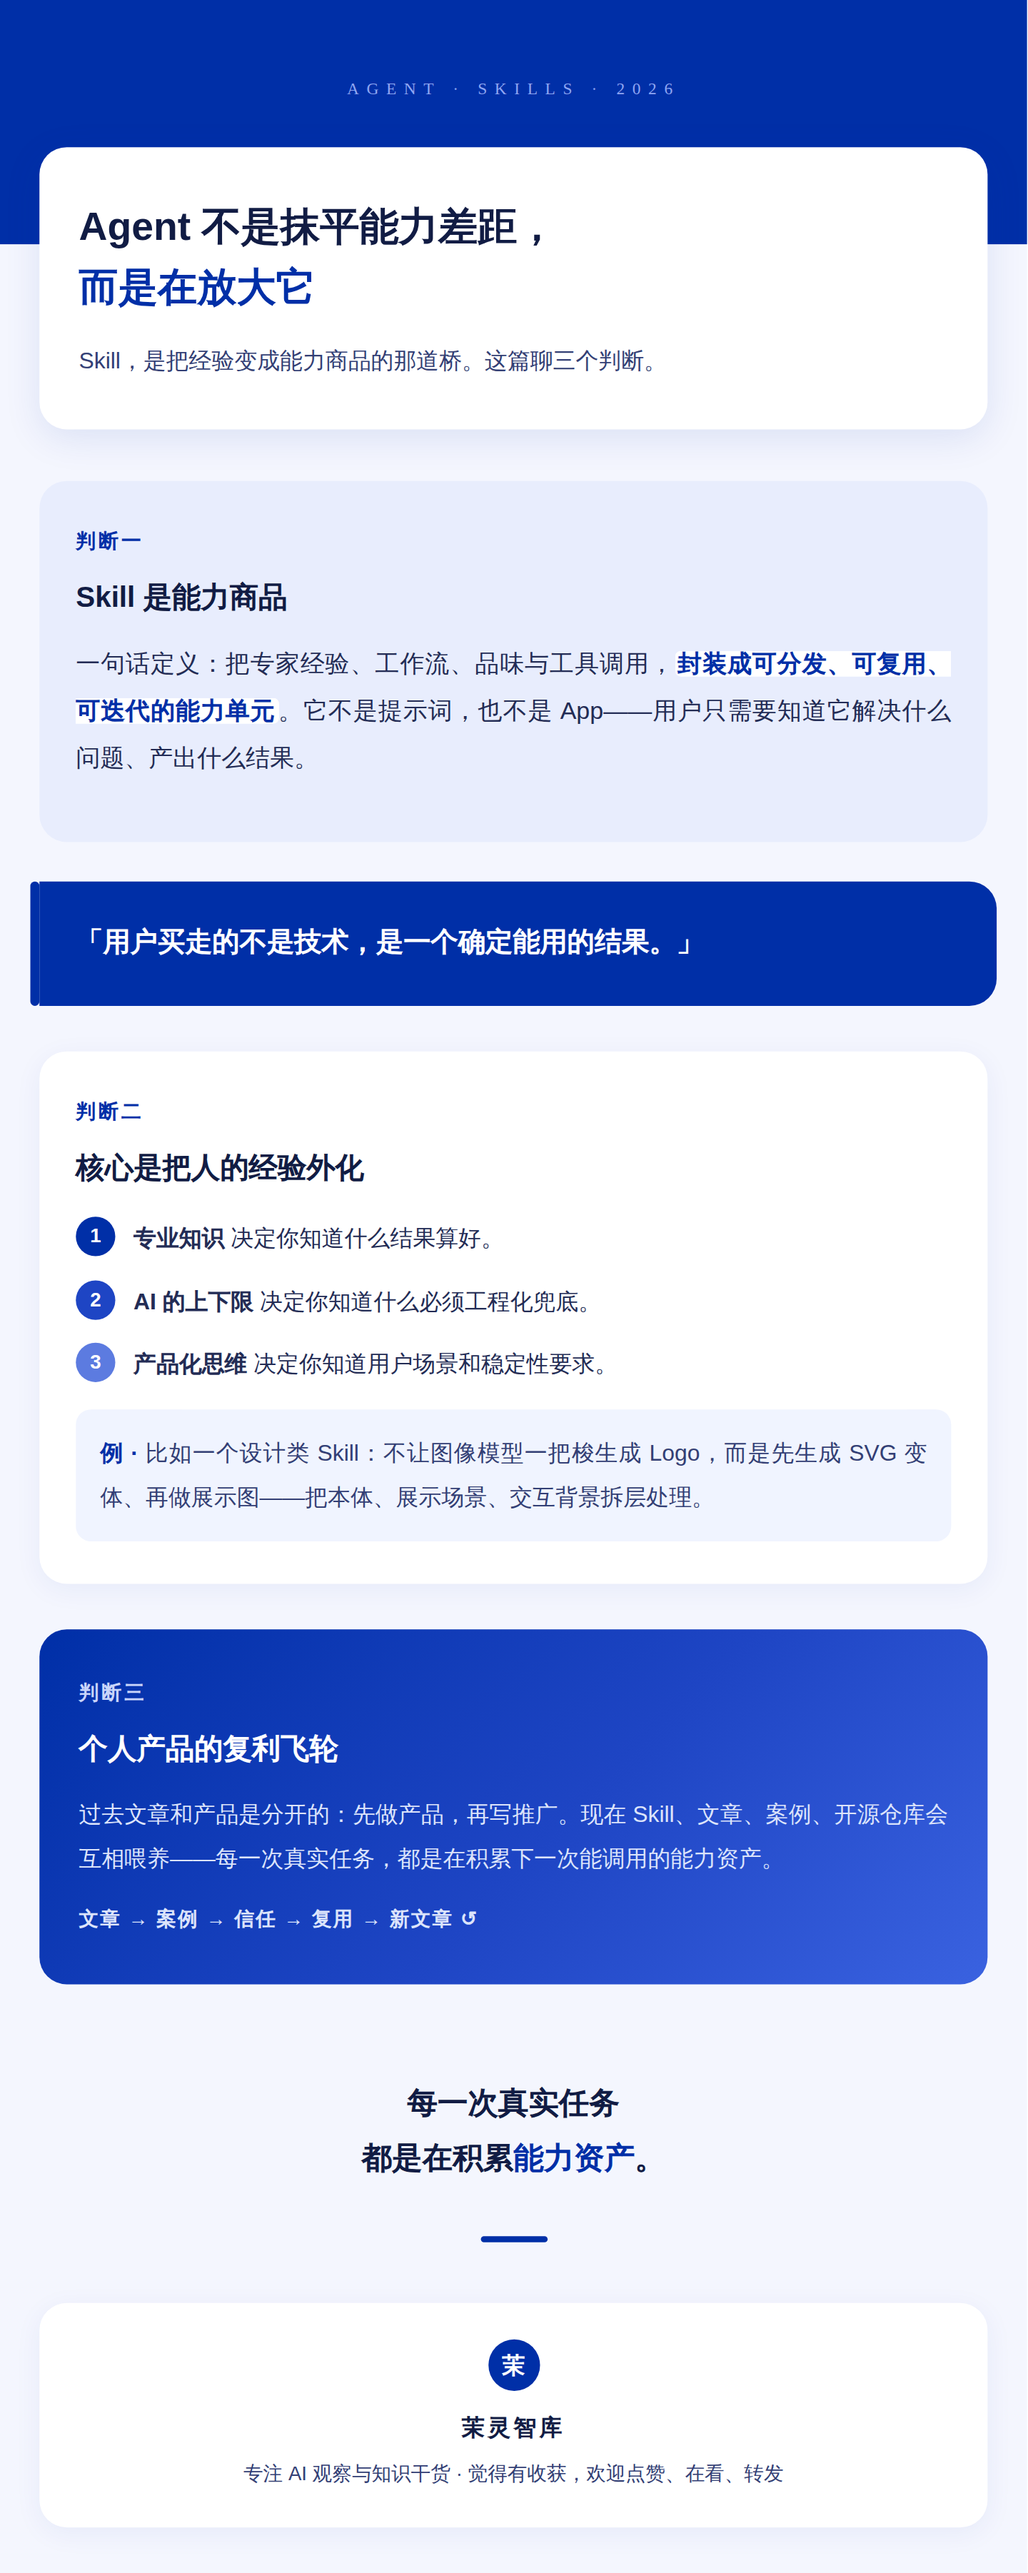
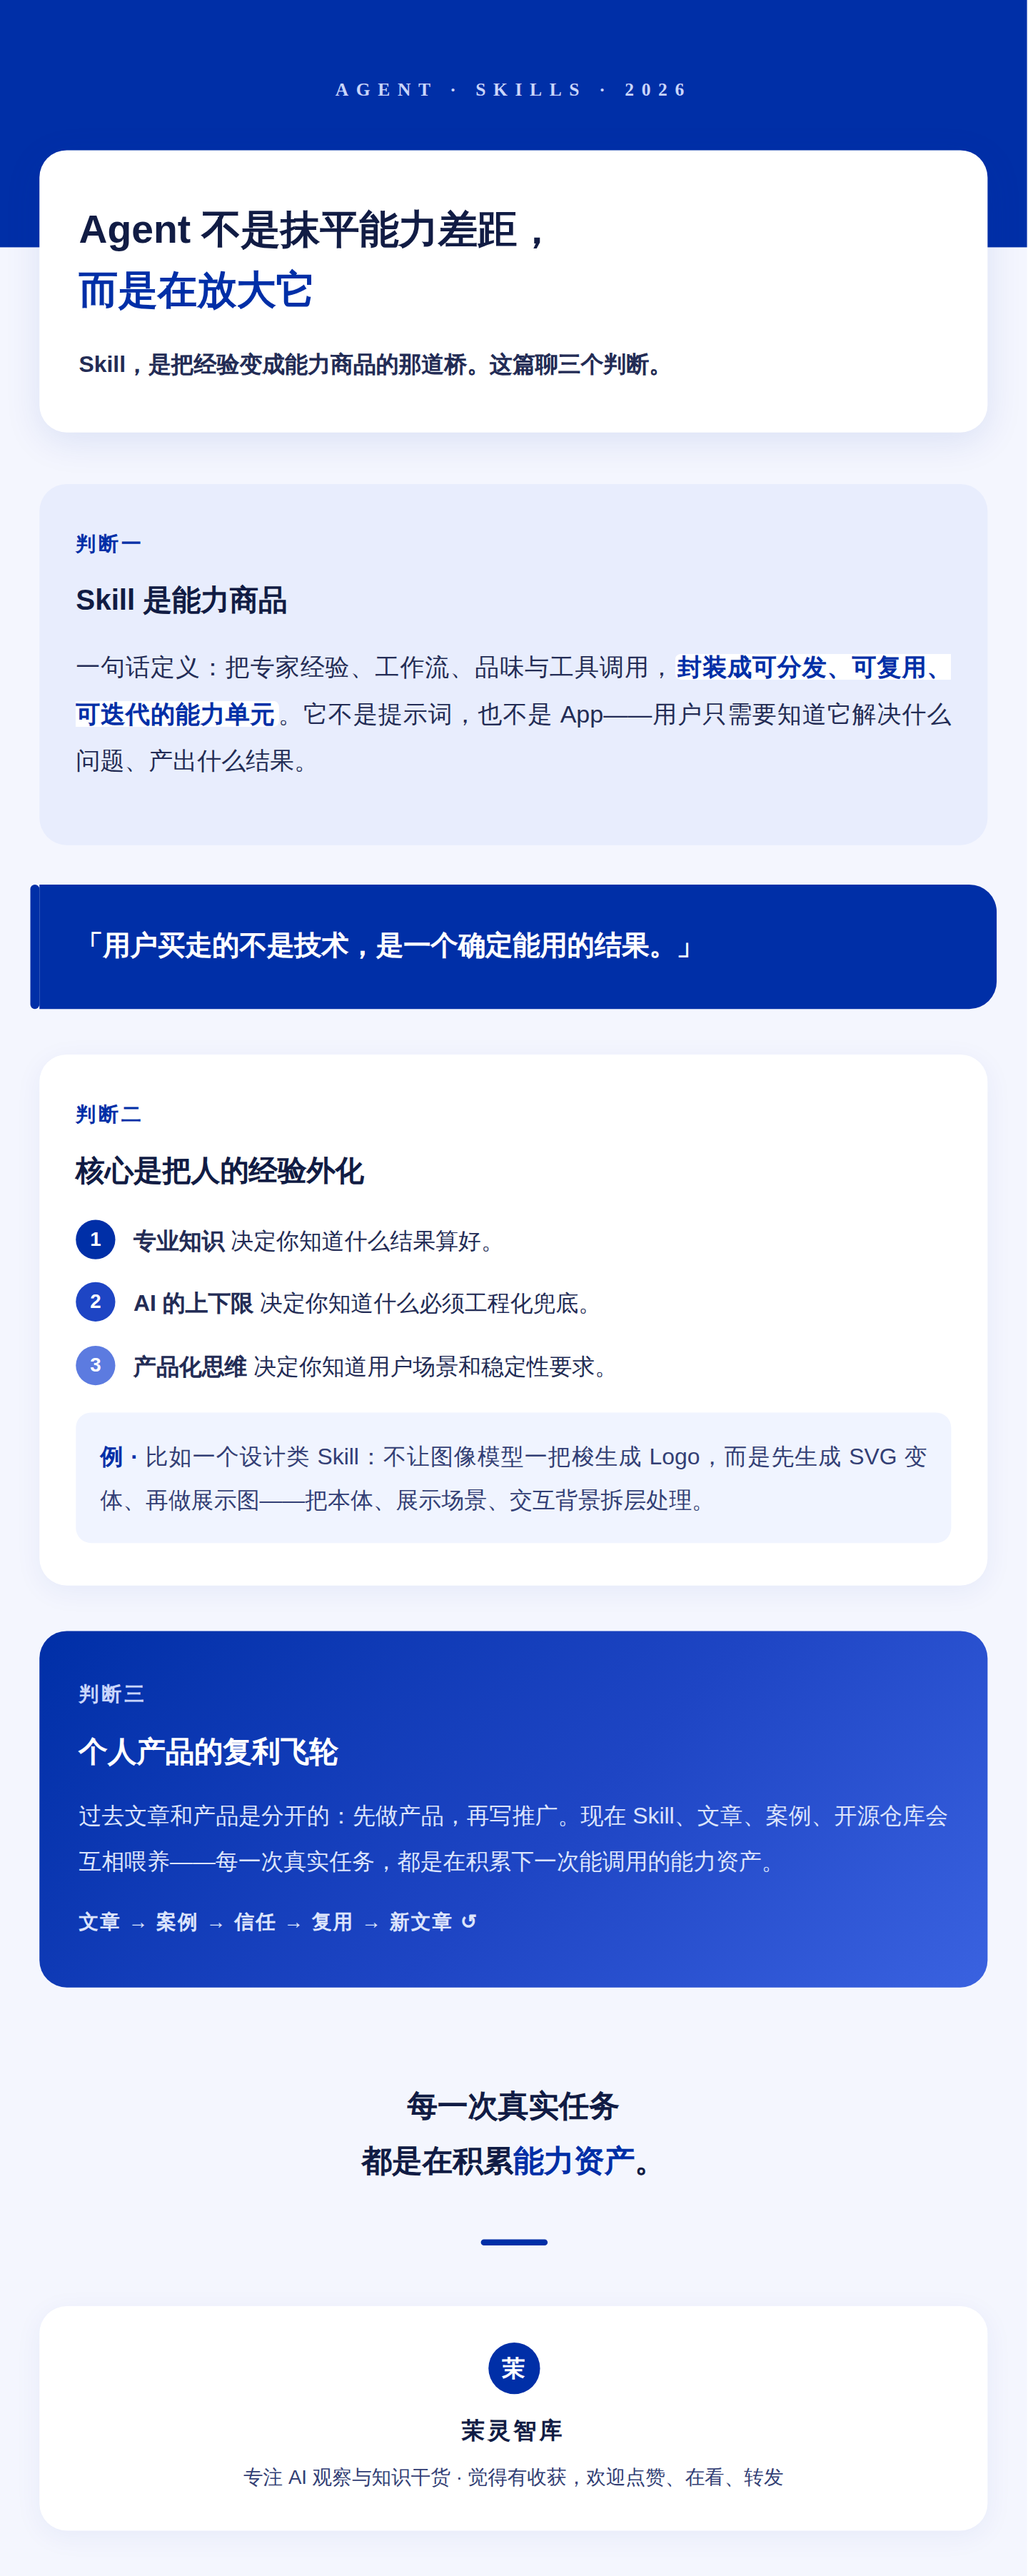
fix: klein-blue 眉题提亮加粗、副标题加深；journal 日期行加深

diff --git a/docs/gallery/klein-blue.html b/docs/gallery/klein-blue.html
@@ -2,11 +2,11 @@
 
   <!-- 1. 开场：全屏蓝幅 + 错位白卡标题（打破"刊头+Hero"套路） -->
   <section style="background:#002FA7;padding:48px 30px 92px;text-align:center;">
-    <p style="margin:0;font-family:Georgia,'Times New Roman',serif;font-size:11px;letter-spacing:5px;color:#8FA6F2;"><span leaf="">AGENT · SKILLS · 2026</span></p>
+    <p style="margin:0;font-family:Georgia,'Times New Roman',serif;font-size:12px;font-weight:bold;letter-spacing:5px;color:#C9D5FA;"><span leaf="">AGENT · SKILLS · 2026</span></p>
   </section>
   <section style="margin:-64px 26px 0;background:#FFFFFF;border-radius:18px;padding:32px 26px 30px;box-shadow:0 6px 24px rgba(0,47,167,0.10);">
     <h2 style="margin:0 0 14px;font-size:26px;font-weight:900;line-height:1.55;color:#111C44;"><span leaf="">Agent 不是抹平能力差距，</span><br><span style="color:#002FA7;"><span leaf="">而是在放大它</span></span></h2>
-    <p style="margin:0;font-size:15px;line-height:1.95;color:#333F75;"><span leaf="">Skill，是把经验变成能力商品的那道桥。这篇聊三个判断。</span></p>
+    <p style="margin:0;font-size:15px;line-height:1.95;color:#232C55;font-weight:bold;"><span leaf="">Skill，是把经验变成能力商品的那道桥。这篇聊三个判断。</span></p>
   </section>
 
   <!-- 2. 判断一：浅蓝水滴卡 -->
